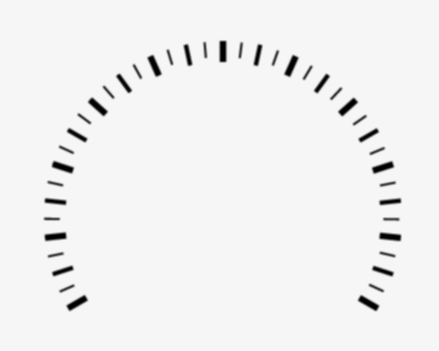
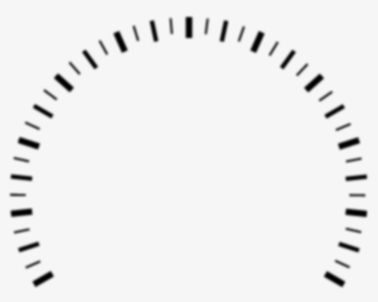
Indicator Item does work. Boundary values are not set.

diff --git a/IndicatorItem.qml b/IndicatorItem.qml
@@ -9,7 +9,7 @@ Rectangle {
     property string name;
     property string topic;
     property int column: 0
-    property int row: 1
+    property int row: 0
     Layout.fillHeight: true
     Layout.fillWidth: true
     Layout.columnSpan: 1
@@ -20,7 +20,12 @@ Rectangle {
 
     MqttItem {
         id:baseitem
+//        name:root.name
+//        topic:root.topic
         anchors.fill:parent
+        property int value: 0
+        onMessageChanged: {
+            baseitem.value = Number(baseitem.m_message)}
         Rectangle{
             anchors.fill:parent
             color: "yellow"
@@ -32,25 +37,58 @@ Rectangle {
 
 
                 Rectangle{
+                    id:first
                     width: baseitem.width; height: baseitem.height-third.height
                     Image {
-                        width:parent.height/sourceSize.height*sourceSize.width
-                        height:parent.height/sourceSize.height*sourceSize.height
-                        anchors.centerIn: parent
-//                        x:(parent.width-parent.height)/2
+                        anchors.top: parent.top
+                        anchors.bottom: parent.bottom
+                        anchors.right: parent.right
+                        anchors.left: parent.left
+                        fillMode: Image.PreserveAspectFit
                         source: "speedometer-needle.jpeg"//"pngegg.png"
                     }
+                    Image {
+                        id: needle
+                        anchors.horizontalCenter: parent.horizontalCenter
+                        anchors.verticalCenter: parent.verticalCenter
+                        height:parent.height/2
+                        width: sourceSize.width/sourceSize.height*needle.height
+//                        anchors.top: parent.top
+//                        anchors.bottom: parent.bottom
+//                        anchors.right: parent.right
+//                        anchors.left: parent.left
+//                        fillMode: Image.PreserveAspectFit
+                        antialiasing: true
+                        source: "needle.png"
+                        transform: Rotation {
+                            id: needleRotation
+                            origin.x: needle.width/2; origin.y: needle.height
+                            //! [needle angle]
+                            angle: baseitem.value//Math.min(Math.max(-130, root.value*2.6 - 130), 133)
+                            Behavior on angle {
+                                SpringAnimation {
+                                    spring: 1.4
+                                    damping: .15
+                                }
+                            }
+                            //! [needle angle]
+                        }
+//                         Component.onCompleted: {console.log("n.h: " + needle.height)}
+                    }
+//                    Component.onCompleted: {console.log("f.h: " + first.height)}
                 }
                 Rectangle {
                     id:third
                     width: baseitem.width; height: name.height*2
-//                    Layout.minimumHeight:name.minimumPixelSize
                     Label {
                         id: name
-                        text: qsTr("Label")//baseitem.name
+                        text: root.name
                         anchors.centerIn: parent } }
 
             }
+        }
+        Component.onCompleted: {
+            baseitem.setTopic(root.topic)
         }
     }
 }

diff --git a/Space.qml b/Space.qml
@@ -24,7 +24,10 @@ Item {
                 topic: "topic"
             }
             IndicatorItem{
-
+                row: 1
+                column: 0
+                name: "My new indicator item"
+                topic: "topic"
             }
             SwitchNewItem{
                 row: 0
